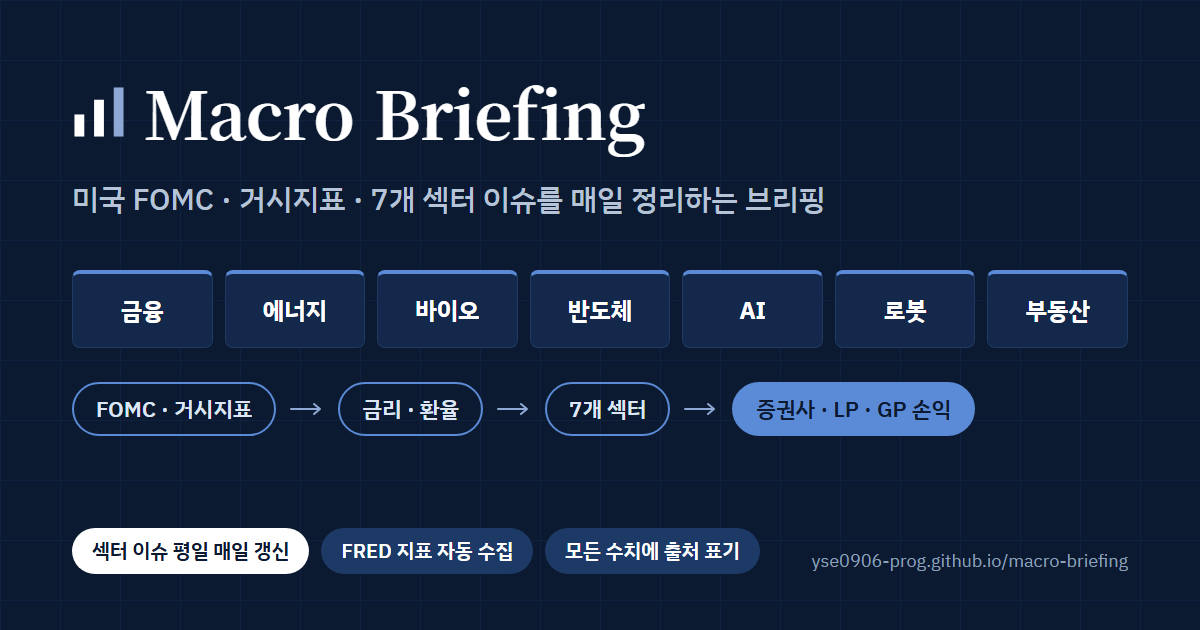
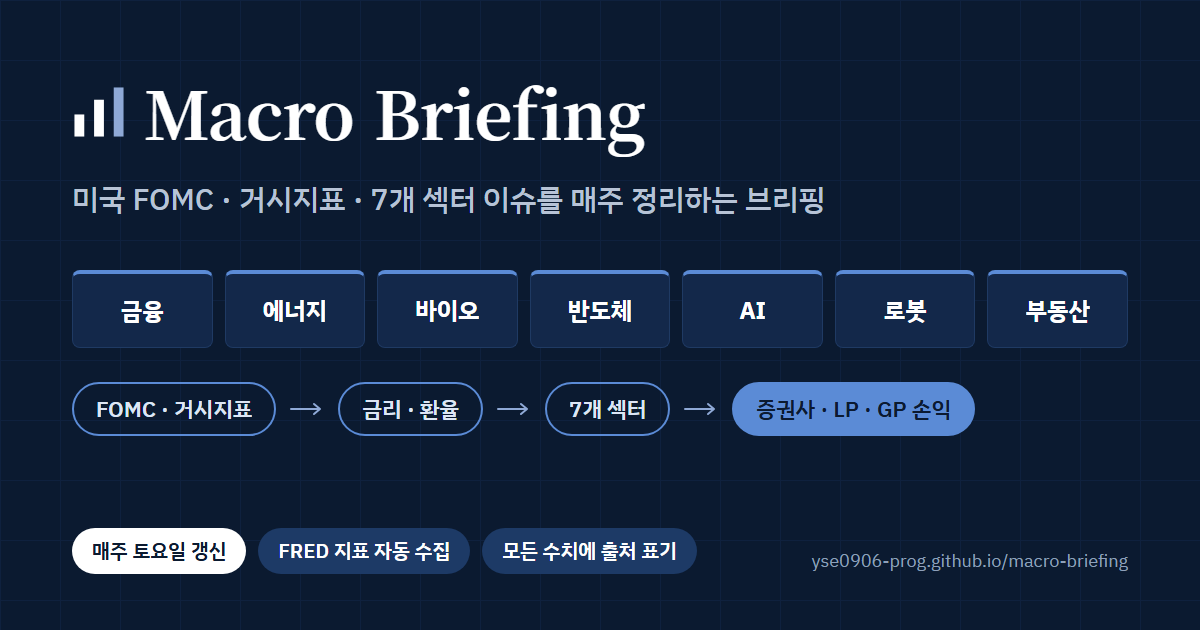
feat: move the site to a weekly cadence
Daily sector issues cost more usage than the project can afford, so the
routine now writes the weekly briefing and the seven-sector file
together on Saturday, and event briefings only after a major release.

The weekly briefing no longer carries its own sector section, which
duplicated the sector file; it links to that day's sector page instead,
with the status board tiles jumping straight to each sector. Weekly
briefings may now omit `sectors`, and older ones that have it are still
checked as before.

Changed region(s): [[0.0617, 0.8143, 0.6475, 0.9349], [0.4933, 0.3016, 0.5242, 0.3619]]

diff --git a/design/og-card.html b/design/og-card.html
@@ -33,7 +33,7 @@ body{background:#0B1A30;color:#FFFFFF;font-family:'IBM Plex Sans KR','Malgun Got
     <svg width="54" height="54" viewBox="0 0 22 22" aria-hidden="true"><rect x="1" y="12" width="4" height="9" fill="#FFFFFF"/><rect x="9" y="6" width="4" height="15" fill="#FFFFFF"/><rect x="17" y="1" width="4" height="20" fill="#8FA9D6"/></svg>
     <h1>Macro Briefing</h1>
   </div>
-  <p class="sub">미국 FOMC · 거시지표 · 7개 섹터 이슈를 매일 정리하는 브리핑</p>
+  <p class="sub">미국 FOMC · 거시지표 · 7개 섹터 이슈를 매주 정리하는 브리핑</p>
   <div class="tiles">
     <div class="tile">금융</div><div class="tile">에너지</div><div class="tile">바이오</div><div class="tile">반도체</div>
     <div class="tile">AI</div><div class="tile">로봇</div><div class="tile">부동산</div>
@@ -43,7 +43,7 @@ body{background:#0B1A30;color:#FFFFFF;font-family:'IBM Plex Sans KR','Malgun Got
   </div>
   <div class="foot">
     <div class="chips">
-      <span class="chip">섹터 이슈 평일 매일 갱신</span>
+      <span class="chip">매주 토요일 갱신</span>
       <span class="chip dim">FRED 지표 자동 수집</span>
       <span class="chip dim">모든 수치에 출처 표기</span>
     </div>

diff --git a/tests/test_cadence.py b/tests/test_cadence.py
@@ -1,0 +1,69 @@
+"""토요일 주간 갱신으로 바뀐 뒤의 규칙.
+
+주간 브리핑은 더 이상 자체 섹터 칸을 두지 않는다. 섹터 분석은 같은 날짜 섹터 파일에 쓰고,
+브리핑은 그 페이지로 연결만 한다. 예전 브리핑(섹터 칸이 있는 것)도 그대로 통과해야 한다.
+"""
+import json
+import unittest
+
+from config import ISSUES
+from macro.build import build_site
+from macro.layout import CADENCE, DESCRIPTION
+from macro.schema import validate_briefing
+from tests.factories import make_briefing, make_calendar, make_indicators, make_sectors, write_data
+from tests.test_build import TODAY, SiteBuildCase
+
+
+def weekly_without_sectors():
+    b = make_briefing()
+    del b["sectors"]
+    return b
+
+
+class WeeklySchemaTest(unittest.TestCase):
+    def test_weekly_may_omit_sectors(self):
+        self.assertEqual(validate_briefing(weekly_without_sectors(), "2026-09-13.json"), [])
+
+    def test_old_briefing_with_sectors_still_checked(self):
+        b = make_briefing()
+        b["sectors"] = b["sectors"][:2]
+        self.assertTrue(any("sectors" in e for e in validate_briefing(b, "2026-09-13.json")))
+
+
+class SectorLinkTest(SiteBuildCase):
+    def write_sector_file(self, day: str):
+        (self.data / "sectors").mkdir(parents=True, exist_ok=True)
+        (self.data / "sectors" / f"{day}.json").write_text(
+            json.dumps(make_sectors(date=day), ensure_ascii=False), encoding="utf-8")
+
+    def test_briefing_links_to_same_day_sector_page(self):
+        write_data(self.data, briefings=[weekly_without_sectors()], indicators=make_indicators(),
+                   calendar=make_calendar())
+        self.write_sector_file("2026-09-13")
+        build_site(self.data, self.out, ISSUES, today=TODAY)
+        html = self.read("briefings/2026-09-13.html")
+        self.assertIn('href="../sectors/2026-09-13.html"', html)
+        self.assertIn("반도체", html)
+        # 섹터 타일은 브리핑 페이지가 아니라 섹터 페이지의 해당 섹터로 가야 한다
+        self.assertIn('href="../sectors/2026-09-13.html#semiconductor"', html)
+
+    def test_no_sector_section_when_no_file(self):
+        write_data(self.data, briefings=[weekly_without_sectors()], indicators=make_indicators(),
+                   calendar=make_calendar())
+        build_site(self.data, self.out, ISSUES, today=TODAY)
+        self.assertNotIn('id="sectors"', self.read("briefings/2026-09-13.html"))
+
+
+class CadenceWordingTest(unittest.TestCase):
+    def test_site_says_weekly_not_daily(self):
+        for text in (CADENCE, DESCRIPTION):
+            self.assertNotIn("평일", text)
+            self.assertIn("토요일", text)
+
+    def test_footer_shows_cadence(self):
+        from macro.layout import page
+        self.assertIn(CADENCE, page(title="홈", active="home", body=""))
+
+
+if __name__ == "__main__":
+    unittest.main()

diff --git a/macro/pages/sectors.py b/macro/pages/sectors.py
@@ -1,4 +1,4 @@
-"""섹터 이슈 페이지(sectors.html). 평일마다 갱신되고 날짜별로 쌓인다."""
+"""섹터 이슈 페이지(sectors.html). 매주 토요일 갱신되고 날짜별로 쌓인다."""
 from macro import components as c
 from macro import visuals as v
 from macro.fmt import esc, kst_time, rich, ymd_ko
@@ -120,7 +120,7 @@ def _body(site, current: dict, root: str = "") -> str:
 
 def _describe(day: dict) -> str:
     return (f"{ymd_ko(day['date'])} 금융·에너지·바이오·반도체·AI·로봇·부동산 7개 섹터 이슈. "
-            "촉발 요인, 숫자 근거, 파급 경로, 한국 연결, 면접 각도까지 평일마다 정리합니다.")
+            "촉발 요인, 숫자 근거, 파급 경로, 한국 연결, 면접 각도까지 매주 정리합니다.")
 
 
 def render_sectors(site, day: dict | None = None) -> str:
@@ -130,8 +130,8 @@ def render_sectors(site, day: dict | None = None) -> str:
         return page(title="섹터 이슈", active="sectors", body=body, css=c.CSS + CSS)
     head = (f'<div class="s-head"><div class="wrap"><div class="s-top">'
             f'<div><span class="eyebrow">섹터 이슈</span>'
-            f'<h1 class="serif">오늘 7개 섹터에서 무슨 일이 있었나</h1>'
-            f'<span class="muted">촉발 요인부터 한국 연결까지 같은 깊이로 정리합니다 · 평일 아침 갱신</span></div>'
+            f'<h1 class="serif">이번 주 7개 섹터에서 무슨 일이 있었나</h1>'
+            f'<span class="muted">촉발 요인부터 한국 연결까지 같은 깊이로 정리합니다 · 매주 토요일 갱신</span></div>'
             f'<span class="muted num">{kst_time(current["updated_at"])} KST 기준</span></div>'
             f'{_quick_menu(current.get("sectors", []))}</div></div>')
     return page(title=f"섹터 이슈 {current['date']}", active="sectors", description=_describe(current),

diff --git a/macro/layout.py b/macro/layout.py
@@ -3,7 +3,8 @@ from macro.fmt import esc
 
 DISCLAIMER = "투자 권유가 아닙니다"
 SITE_URL = "https://yse0906-prog.github.io/macro-briefing/"
-DESCRIPTION = ("미국 FOMC·거시지표와 7개 섹터 이슈를 정리하고, 증권사·LP·GP 업권별 시사점까지 잇는 거시경제 브리핑. 섹터 이슈는 평일 매일, 주간 브리핑은 매주 토요일 갱신.")
+DESCRIPTION = ("미국 FOMC·거시지표와 7개 섹터 이슈를 정리하고, 증권사·LP·GP 업권별 시사점까지 잇는 거시경제 브리핑. 매주 토요일 갱신하고, 큰 지표 발표 다음 날에는 이벤트 브리핑을 더합니다.")
+CADENCE = "주간 브리핑·섹터 이슈 매주 토요일 · 주요 발표 다음 날 이벤트 브리핑"
 
 NAV = [
     ("home", "홈", "index.html"),
@@ -141,7 +142,7 @@ def page(*, title: str, active: str, body: str, root: str = "", css: str = "", d
 <div class="foot-l"><strong>{DISCLAIMER}</strong>
 <span>이 사이트는 거시경제 학습과 금융권 취업 준비를 위한 참고 자료입니다. 분석과 전망은 AI가 공개 자료를 바탕으로 작성해 오류가 있을 수 있으며, 투자 판단의 근거로 쓸 수 없습니다.</span>
 <span>지표 수치: FRED(세인트루이스 연방준비은행) · 예상치·뉴스: 각 항목에 출처 표기</span></div>
-<div class="foot-r"><span class="serif">Macro Briefing</span><span>섹터 이슈 평일 매일 갱신</span><span>주간 브리핑 매주 토요일 · 주요 발표 다음 날 이벤트 브리핑</span><span>© 2026 SangEunLAB</span></div>
+<div class="foot-r"><span class="serif">Macro Briefing</span><span>{CADENCE}</span><span>© 2026 SangEunLAB</span></div>
 </div></footer>
 {DDAY_SCRIPT}
 </body>

diff --git a/macro/schema.py b/macro/schema.py
@@ -104,13 +104,16 @@ def _check_releases(releases, source_ids, err):
 
 
 def _check_weekly(b, err):
-    for key in ("releases", "fomc", "sectors", "scenarios", "interview_insights"):
+    for key in ("releases", "fomc", "scenarios", "interview_insights"):
         if key not in b:
             err(f"weekly 필수 항목 없음: {key}")
-    sectors = b.get("sectors", [])
-    if not 3 <= len(sectors) <= 5:
+    # 섹터 분석은 같은 날짜 섹터 파일에 쓴다. 예전 브리핑에만 남아 있는 칸이라 있을 때만 검사한다.
+    sectors = b.get("sectors")
+    if sectors is None:
+        sectors = []
+    elif not 3 <= len(sectors) <= 5:
         err("sectors는 3~5개")
-    if not any(s.get("name") == "금융" for s in sectors):
+    elif not any(s.get("name") == "금융" for s in sectors):
         err("sectors에 금융 섹터가 있어야 함")
     for i, s in enumerate(sectors):
         if s.get("impact") not in SECTOR_IMPACTS:
@@ -240,7 +243,7 @@ AI_WATCH = {"OpenAI", "Anthropic"}
 
 
 def validate_sectors(data: dict, filename: str) -> list[str]:
-    """평일마다 쌓이는 섹터 이슈 파일을 검사한다."""
+    """토요일마다 쌓이는 섹터 이슈 파일을 검사한다."""
     errors = []
     err = lambda msg: errors.append(f"{filename}: {msg}")
     if not _is_date(data.get("date")):

diff --git a/macro/pages/briefing.py b/macro/pages/briefing.py
@@ -185,6 +185,16 @@ def _sectors(b: dict) -> str:
     return f'<div class="grid-2">{"".join(cards)}</div>'
 
 
+def _sector_link(site, b: dict) -> str:
+    """섹터 분석은 같은 날짜 섹터 파일에 있다. 브리핑에서는 그 페이지로 보낸다."""
+    day = next((s for s in site.sectors if s["date"] == b["date"]), None)
+    if day is None:
+        return ""
+    tiles = vis.status_board(day.get("sectors", []), base=f"../sectors/{day['date']}.html")
+    return (f'<div class="card pad stack">{tiles}'
+            f'<p><a href="../sectors/{esc(day["date"])}.html">7개 섹터 이슈 전체 보기 →</a></p></div>')
+
+
 def _impact(b: dict) -> str:
     return vis.impact_tiles(b["market_impact"], c.ASSET_LABEL)
 
@@ -321,6 +331,10 @@ def _sections(site, b: dict) -> list[tuple[str, str, str]]:
         sections.append(("next-fomc", f"FOMC 전망 · {md(fomc['next_meeting']['date'])} 회의", _next_meeting(fomc["next_meeting"])))
     if b.get("sectors"):
         sections.append(("sectors", "이슈 섹터", _sectors(b)))
+    else:
+        link = _sector_link(site, b)
+        if link:
+            sections.append(("sectors", "섹터 이슈", link))
     sections.append(("impact", "시장 영향", _impact(b)))
     if b.get("fx"):
         sections.append(("fx", "외환 · 원/달러", _fx(site, b)))

diff --git a/tests/test_build.py b/tests/test_build.py
@@ -7,7 +7,7 @@ from pathlib import Path
 from config import ISSUES
 from macro.build import build_site
 from macro.components import EMPTY_MESSAGE
-from macro.layout import DISCLAIMER
+from macro.layout import CADENCE, DISCLAIMER
 from tests.factories import (make_briefing, make_calendar, make_event_briefing, make_indicators,
                              make_sectors, write_data)
 
@@ -65,8 +65,8 @@ class HomeArchiveTest(SiteBuildCase):
                      "동결 <b>78%</b>", "이슈 섹터", "시장 영향", "FOMC 금리 결정·기자회견", DISCLAIMER):
             self.assertIn(text, html)
         self.assertIn('href="briefings/2026-09-17.html"', html)
-        self.assertIn("섹터 이슈 평일 매일 갱신", html)
-        self.assertNotIn("주 1회", html)
+        self.assertIn(CADENCE, html)
+        self.assertNotIn("평일 매일", html)
         for text in ("코스피", "코스닥", "VKOSPI", 'tk-g">한국'):
             self.assertNotIn(text, html)
 

diff --git a/macro/visuals.py b/macro/visuals.py
@@ -69,12 +69,12 @@ STATUS_TILE = {
 }
 
 
-def status_board(sectors: list) -> str:
+def status_board(sectors: list, base: str = "") -> str:
     tiles = []
     for s in sectors:
         cls, label = STATUS_TILE.get(s.get("status"), STATUS_TILE["neutral"])
         days = f'<small>{s["days"]}일째</small>' if s.get("days") else ""
-        tiles.append(f'<a class="board-tile {cls}" href="#{esc(s["key"])}"><span class="bt-name">{esc(s["name"])}</span>'
+        tiles.append(f'<a class="board-tile {cls}" href="{base}#{esc(s["key"])}"><span class="bt-name">{esc(s["name"])}</span>'
                      f'<span class="bt-status">{label}{days}</span></a>')
     return f'<div class="board">{"".join(tiles)}</div>'
 

diff --git a/ROUTINE.md b/ROUTINE.md
@@ -1,6 +1,6 @@
 # Macro Briefing 루틴 작업 지침
 
-이 파일은 매일 07:00 KST에 실행되는 Claude Code 예약 루틴의 절차다. 저장소는 `yse0906-prog/macro-briefing`이며 `main`에 직접 커밋한다.
+이 파일은 토요일 07:00 KST에 실행되는 Claude Code 예약 루틴의 절차다. 큰 지표 발표 다음 날에는 깃허브가 루틴을 한 번 더 깨운다. 저장소는 `yse0906-prog/macro-briefing`이며 `main`에 직접 커밋한다.
 
 ## 절대 규칙
 
@@ -18,18 +18,19 @@
 
 ## 1. 오늘 할 일 판단
 
-오늘 할 일은 세 가지이며, 조건에 맞는 것을 모두 한다.
+오늘 할 일은 두 가지이며, 조건에 맞는 것을 모두 한다.
 
-1. **섹터 이슈(평일마다)**: 오늘이 월~금이면 `data/sectors/<오늘 날짜>.json`을 만든다. 이미 있으면 새로 쓰지 않고 넘어간다.
-2. **주간 브리핑(토요일)**: 오늘이 토요일이면 `data/briefings/<오늘 날짜>.json`을 `weekly`로 만든다. 대상 기간은 직전 월요일~금요일이다.
-3. **이벤트 브리핑(대형 발표 다음 날)**: `data/calendar.json`의 중요도 3 이벤트 중 `kst`가 "지금 − 24시간 ~ 지금"에 들어가는 것이 있고 웹 검색으로 실제 발표를 확인했으면 `event` 브리핑을 만든다.
+1. **토요일: 주간 브리핑 + 섹터 이슈.** 오늘이 토요일이면 `data/briefings/<오늘 날짜>.json`(`weekly`)과 `data/sectors/<오늘 날짜>.json`을 **둘 다** 만든다. 대상 기간은 직전 월요일~금요일이다.
+2. **이벤트 브리핑: 큰 발표 다음 날.** `data/calendar.json`의 중요도 3 이벤트 중 `kst`가 "지금 − 24시간 ~ 지금"에 들어가는 것이 있고 웹 검색으로 실제 발표를 확인했으면 `event` 브리핑을 만든다. 이날은 섹터 파일을 만들지 않는다.
 
-셋 중 하나도 해당하지 않으면(일요일이고 대형 발표도 없음) `오늘은 갱신 없음: <사유>`를 출력하고 커밋 없이 종료한다. 같은 날짜 파일이 이미 있으면 그 항목만 건너뛴다.
+둘 다 해당하지 않으면 `오늘은 갱신 없음: <사유>`를 출력하고 커밋 없이 종료한다. 같은 날짜 파일이 이미 있으면 그 항목만 건너뛴다.
+
+**토큰을 아끼는 것이 이 루틴의 제약이다.** 평일 매일 쓰던 것을 주 1회로 줄인 이유가 그것이다. 조사는 필요한 만큼만 하고, 같은 내용을 주간 브리핑과 섹터 파일에 두 번 쓰지 않는다.
 
 ## 1-2. 섹터 이슈 작성 규칙
 
 - 섹터는 **항상 7개**이며 순서도 고정이다: 금융(`finance`) · 에너지(`energy`) · 바이오(`bio`) · 반도체(`semiconductor`) · AI(`ai`) · 로봇(`robotics`) · 부동산(`realestate`).
-- **7개 섹터를 모두 같은 깊이로 채운다.** 그날 큰 뉴스가 없는 섹터도 현재 상태와 배경을 설명한다. 다만 없는 사실을 지어내지 않고, 조용한 이유를 그대로 쓴다.
+- **7개 섹터를 모두 같은 깊이로 채운다.** 대상 기간은 직전 월요일~금요일이고, 그 주에 큰 뉴스가 없던 섹터도 현재 상태와 배경을 설명한다. 다만 없는 사실을 지어내지 않고, 조용한 이유를 그대로 쓴다.
 - 각 섹터는 다음을 모두 갖는다. 분량 제한은 없으니 필요하면 길게 쓴다.
   - `status`: positive / negative / neutral / mixed
   - `headline`: 한 줄 요약
@@ -67,9 +68,7 @@
 - 다음 FOMC 날짜: federalreserve.gov 일정
 - CME FedWatch 확률: 현재와 1주 전
 - 최근 FOMC 성명·투표·기자회견 요지: 대상 기간이나 직전에 회의가 있었다면 federalreserve.gov에서
-- 이번 주 이슈가 컸던 S&P 500 섹터 3~5개(금융 필수)
-  - 대표 종목 1~3개의 주간 등락률
-  - 뉴스 1~2건(헤드라인·매체·URL·날짜)
+- 섹터 조사는 1-2의 7개 섹터 규칙을 따라 **섹터 파일에만** 쓴다. 주간 브리핑에는 섹터 칸을 넣지 않는다(같은 내용을 두 번 쓰지 않기 위해서다). 브리핑 페이지는 같은 날짜 섹터 파일로 자동 연결된다.
 - 상시 점검 주제(해당 주에 움직임이 있으면 섹터 분석에 반영한다)
   - 에너지: 호르무즈 해협 통항 상황과 미국·이란 갈등, 유가·전쟁보험료·공급 차질 규모
   - 기술: 매그니피센트 7의 설비투자·자사주·실적 가이던스 변화
@@ -106,7 +105,7 @@
   - `hedge`: 환헤지 비용(스왑포인트)이 금리차 변화로 어떻게 바뀌었는지
   - `flows`: 외국인 증권자금, 수출입 결제, 연기금 해외투자 등 수급
   - `watch_next`: 1개 이상
-- weekly 추가 규칙: `sectors` 3~5개(금융 포함), `scenarios` 확률 합 100, `interview_insights` 2~3개(금융권 면접 질문과 답변 포인트)
+- weekly 추가 규칙: `scenarios` 확률 합 100, `interview_insights` 2~3개(금융권 면접 질문과 답변 포인트). **`sectors` 칸은 넣지 않는다** — 섹터 분석은 같은 날짜 섹터 파일에 쓴다.
 - event는 `releases` 또는 `fomc.last_meeting`, 그리고 `market_impact`, `sources`만 있으면 된다.
 - `data/calendar.json`: 향후 14일 일정. `kst`는 `+09:00` 시각
 
